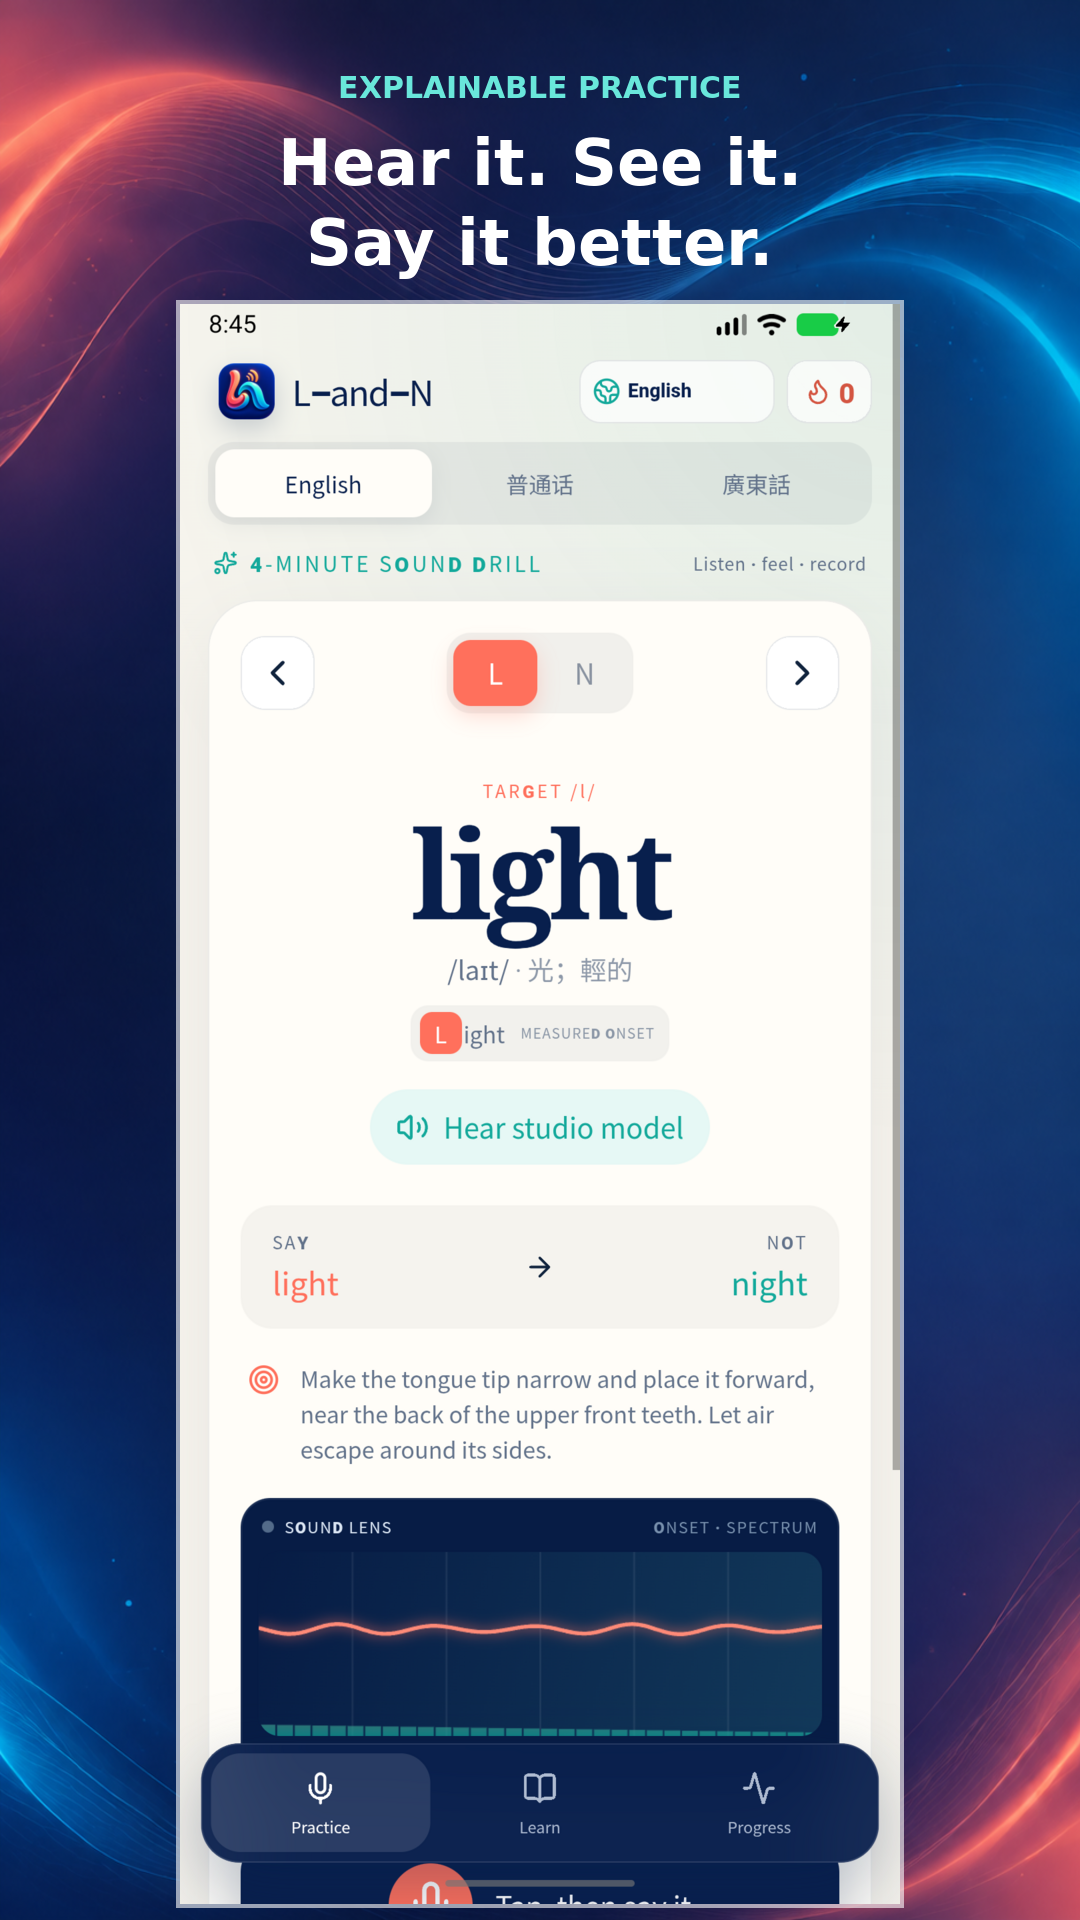
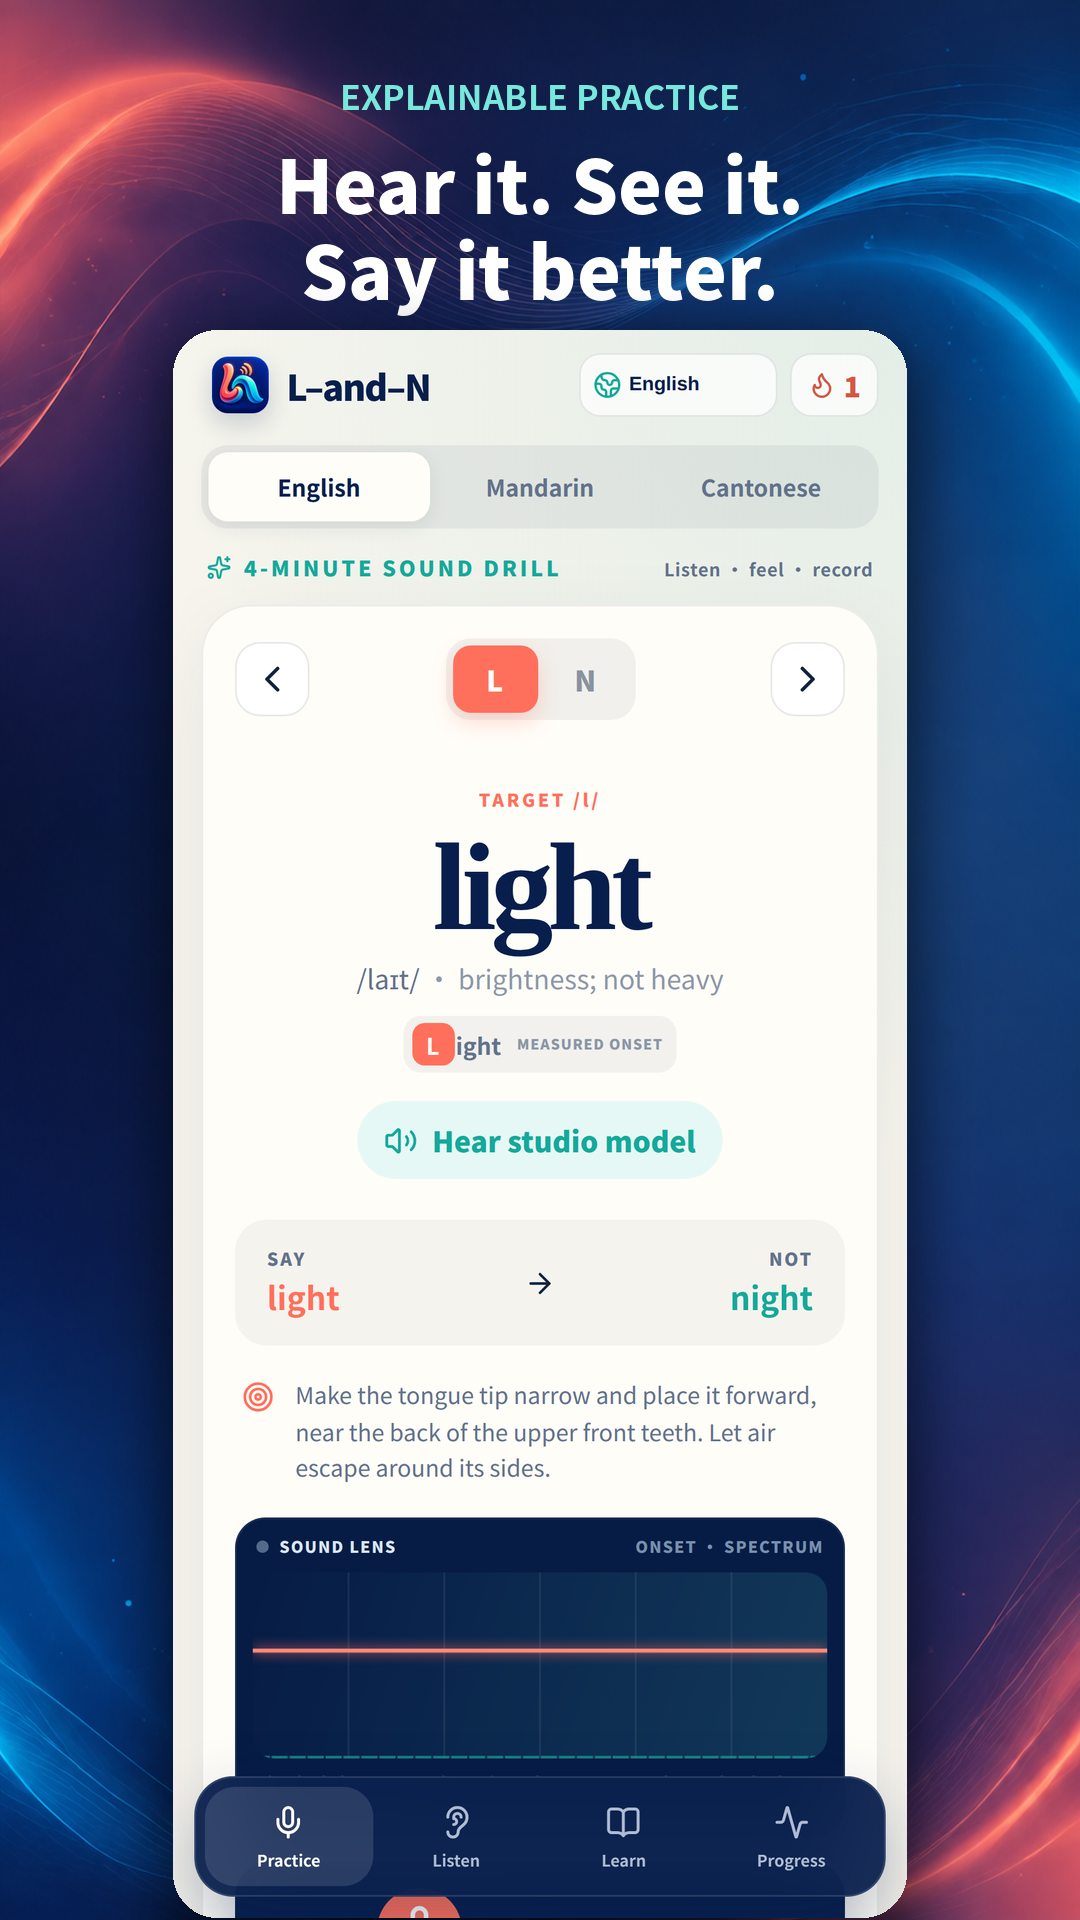
Refresh the store screenshots for 1.0.4 and keep the tools that make them

diff --git a/src/components/MouthModel3D.tsx b/src/components/MouthModel3D.tsx
@@ -47,28 +47,29 @@ function ellipsoid(
   return mesh
 }
 
+/** Some WebViews and headless browsers cannot create a WebGL context; the rest of the app must keep working. */
+function supportsWebGL(): boolean {
+  try {
+    const probe = document.createElement('canvas')
+    return Boolean(probe.getContext('webgl2') ?? probe.getContext('webgl'))
+  } catch {
+    return false
+  }
+}
+
 export function MouthModel3D({ copy }: { copy: UICopy['model'] }) {
   const hostRef = useRef<HTMLDivElement>(null)
   const [sound, setSound] = useState<TargetSound>('L')
-  const [unsupported, setUnsupported] = useState(false)
+  const [unsupported] = useState(() => !supportsWebGL())
 
   useEffect(() => {
     const host = hostRef.current
-    if (!host) return
+    if (!host || unsupported) return
 
     const scene = new THREE.Scene()
     const camera = new THREE.PerspectiveCamera(32, 1, 0.1, 100)
     camera.position.set(0.05, 0.55, 6.8)
-    let renderer: THREE.WebGLRenderer
-    try {
-      renderer = new THREE.WebGLRenderer({ antialias: true, alpha: true })
-    } catch (error) {
-      // Some WebViews and headless browsers cannot create a WebGL context; the
-      // rest of the app must keep working, so show the callouts without the model.
-      console.warn('3D mouth model unavailable', error)
-      setUnsupported(true)
-      return
-    }
+    const renderer = new THREE.WebGLRenderer({ antialias: true, alpha: true })
     renderer.setPixelRatio(Math.min(window.devicePixelRatio || 1, 2))
     renderer.outputColorSpace = THREE.SRGBColorSpace
     renderer.setClearColor(0x000000, 0)
@@ -253,7 +254,7 @@ export function MouthModel3D({ copy }: { copy: UICopy['model'] }) {
       renderer.dispose()
       renderer.domElement.remove()
     }
-  }, [sound])
+  }, [sound, unsupported])
 
   const callouts = sound === 'L' ? [copy.lContact, copy.lVelum, copy.lAir] : [copy.nContact, copy.nVelum, copy.nAir]
 

diff --git a/tools/store/capture_screens.py b/tools/store/capture_screens.py
@@ -1,0 +1,77 @@
+import sys, json, time, base64, datetime
+sys.argv=['cdp.py','9485','tabs']; exec(open('cdp.py').read().split("if cmd=='tabs':")[0])
+S='/tmp/claude-1000/-home-lachlan-ProjectsLFS-L-And-N/8b9cb924-868e-4a66-8c34-3cb4d5f61ca3/scratchpad'
+tid=open(S+'/cap-tab-id.txt').read().strip(); t=[x for x in tabs() if x['id']==tid][0]; c=C(t['webSocketDebuggerUrl'])
+c.call('Page.bringToFront')
+def ev(e): return c.call('Runtime.evaluate', expression=e, returnByValue=True, awaitPromise=True)['result'].get('value')
+def mouse(x,y):
+    for typ,extra in (('mouseMoved',{}),('mousePressed',{'button':'left','clickCount':1}),('mouseReleased',{'button':'left','clickCount':1})):
+        c.call('Input.dispatchMouseEvent', type=typ, x=x, y=y, **extra)
+def click(js):
+    r=ev('(()=>{const e=%s; if(!e) return null; e.scrollIntoView({block:"center"}); const q=e.getBoundingClientRect(); return {x:q.x+q.width/2,y:q.y+q.height/2}})()' % js)
+    if r: mouse(r['x'], r['y'])
+    return r
+def wait_for(js, seconds=15):
+    for _ in range(seconds*2):
+        if ev('!!(%s)' % js): return True
+        time.sleep(0.5)
+    return False
+def by_test(id_):
+    wait_for("document.querySelector('[data-testid=%s]')" % json.dumps(id_)); time.sleep(0.3)
+    return click("document.querySelector('[data-testid=%s]')" % json.dumps(id_))
+def by_text(txt, sel='button'): return click('[...document.querySelectorAll(%s)].find(b=>b.getBoundingClientRect().width>0&&b.innerText.trim().startsWith(%s))' % (json.dumps(sel), json.dumps(txt)))
+def shot(name, focus=None):
+    if focus: ev('(()=>{const e=document.querySelector(%s); if(e){e.scrollIntoView({block:"center"});} })()' % json.dumps(focus))
+    else: ev('window.scrollTo(0,0)')
+    time.sleep(0.8)
+    r=c.call('Page.captureScreenshot', format='png'); open(f'{S}/shots/{name}.png','wb').write(base64.b64decode(r['data'])); print('shot', name)
+def setup(w,h,dpr,mobile):
+    c.call('Emulation.setDeviceMetricsOverride', width=w, height=h, deviceScaleFactor=dpr, mobile=mobile)
+    c.call('Page.navigate', url='https://l-and-n.lazying.art/?shots='+str(int(time.time()))); time.sleep(6)
+    now=datetime.datetime.utcnow()
+    attempts=[]
+    for i,(ex,score,det) in enumerate([('en-light-night',92,'L'),('en-night-light',88,'N'),('zh-li-ni',81,'L'),('yue-nei-lei',95,'N'),('en-lead-need',74,'L'),('en-line-nine',90,'L')]):
+        created=(now-datetime.timedelta(minutes=7*i)).isoformat()+'Z'
+        attempts.append({'exerciseId':ex,'score':score,'createdAt':created,'detectedSound':det,'target':det,'language':'en-US' if ex.startswith('en') else ('zh-CN' if ex.startswith('zh') else 'yue-HK'),'takeId':created})
+    listening=[{'pairId':'en-light-night|en-night-light','language':'en-US','total':5,'correct':5,'createdAt':(now-datetime.timedelta(minutes=3)).isoformat()+'Z'},{'pairId':'zh-li-ni|zh-ni-li','language':'zh-CN','total':7,'correct':6,'createdAt':(now-datetime.timedelta(minutes=30)).isoformat()+'Z'}]
+    ev('localStorage.setItem("CapacitorStorage.landn.attempts.v1", %s); localStorage.setItem("CapacitorStorage.landn.listening.v1", %s); 1' % (json.dumps(json.dumps(attempts)), json.dumps(json.dumps(listening))))
+    c.call('Page.reload'); time.sleep(6)
+    ev('(()=>{const st=document.createElement("style"); st.textContent="::-webkit-scrollbar{display:none} html{scrollbar-width:none}"; document.head.appendChild(st); return 1})()')
+NAV_MARKERS={'Practice':'SOUND DRILL','Listen':'EAR TRAINING','Learn':'Learn','Progress':'Progress','練習':'練習'}
+def tab(index, marker):
+    for attempt in range(3):
+        nav=ev('[...document.querySelectorAll(".bottom-nav button")].map(b=>{const q=b.getBoundingClientRect(); return [q.x+q.width/2,q.y+q.height/2]})') or []
+        if len(nav)>index: mouse(*nav[index]); time.sleep(1.5)
+        if ev('document.body.innerText.includes(%s)' % json.dumps(marker)): return True
+        ev('[...document.querySelectorAll(".bottom-nav button")][%d].click()' % index); time.sleep(1.5)
+        if ev('document.body.innerText.includes(%s)' % json.dumps(marker)): return True
+    print('tab failed', index, marker); return False
+def run(prefix):
+    tab(0, 'SOUND DRILL'); shot(prefix+'-practice-en')
+    by_text('Mandarin'); time.sleep(1.5)
+    click('[...document.querySelectorAll("button")].find(b=>b.getBoundingClientRect().width>0&&/next/i.test(b.getAttribute("aria-label")||""))'); time.sleep(1)
+    shot(prefix+'-practice-zh')
+    tab(1, 'EAR TRAINING'); time.sleep(1)
+    print('play', by_test('exam-play'))
+    for _ in range(30):
+        time.sleep(1)
+        if ev('!!document.querySelector("[data-testid=exam-replay]")'): break
+    print('phase', ev('document.querySelector(".exam-actions")?.innerText'))
+    time.sleep(1); by_test('exam-choose-l'); time.sleep(0.4); by_test('exam-choose-n'); time.sleep(0.6)
+    shot(prefix+'-listen-answering', '.hear-words')
+    seq=ev('[...document.querySelectorAll(".exam-dots i")].length')
+    for i in range(2, seq): by_test('exam-choose-l' if i%2==0 else 'exam-choose-n'); time.sleep(0.3)
+    by_test('exam-submit'); time.sleep(2); print('result', ev('!!document.querySelector("[data-testid=exam-result]")')); shot(prefix+'-listen-result', '[data-testid=exam-result]')
+    tab(3, 'Progress'); time.sleep(3); print('history rows', ev('document.querySelectorAll("[data-testid=history-play]").length')); shot(prefix+'-progress', '[data-testid=history-play]')
+    ev('(()=>{const s=document.querySelector("[data-testid=ui-language-picker]"); const set=Object.getOwnPropertyDescriptor(HTMLSelectElement.prototype,"value").set; set.call(s,"zh-Hant"); s.dispatchEvent(new Event("change",{bubbles:true})); return s.value})()'); time.sleep(1.5)
+    tab(0, '練習'); by_text('廣東話'); time.sleep(1.5); shot(prefix+'-practice-yue-hant')
+    ev('(()=>{const s=document.querySelector("[data-testid=ui-language-picker]"); const set=Object.getOwnPropertyDescriptor(HTMLSelectElement.prototype,"value").set; set.call(s,"en"); s.dispatchEvent(new Event("change",{bubbles:true})); return s.value})()'); time.sleep(1)
+    if ev('(()=>{try{const c=document.createElement("canvas"); return !!(c.getContext("webgl2")||c.getContext("webgl"))}catch(e){return false}})()'):
+        tab(2, 'Learn'); time.sleep(8); print('canvas', ev('document.querySelectorAll("canvas").length')); shot(prefix+'-learn')
+    else:
+        print('no WebGL in this browser; Learn capture skipped')
+import os
+which=os.environ.get("SHOT_DEVICE","iphone")
+if which=='iphone': setup(414, 896, 3, False); run('iphone')
+else: setup(1032, 1376, 2, False); run('ipad')
+print('done')

diff --git a/tools/store/capture_learn.py b/tools/store/capture_learn.py
@@ -1,0 +1,56 @@
+import sys, json, time, base64, datetime
+sys.argv=['cdp.py','9486','tabs']; exec(open('cdp.py').read().split("if cmd=='tabs':")[0])
+S='/tmp/claude-1000/-home-lachlan-ProjectsLFS-L-And-N/8b9cb924-868e-4a66-8c34-3cb4d5f61ca3/scratchpad'
+t=[x for x in tabs() if x['type']=='page'][0]; c=C(t['webSocketDebuggerUrl'])
+c.call('Page.bringToFront')
+def ev(e): return c.call('Runtime.evaluate', expression=e, returnByValue=True, awaitPromise=True)['result'].get('value')
+def mouse(x,y):
+    for typ,extra in (('mouseMoved',{}),('mousePressed',{'button':'left','clickCount':1}),('mouseReleased',{'button':'left','clickCount':1})):
+        c.call('Input.dispatchMouseEvent', type=typ, x=x, y=y, **extra)
+def click(js):
+    r=ev('(()=>{const e=%s; if(!e) return null; e.scrollIntoView({block:"center"}); const q=e.getBoundingClientRect(); return {x:q.x+q.width/2,y:q.y+q.height/2}})()' % js)
+    if r: mouse(r['x'], r['y'])
+    return r
+def wait_for(js, seconds=15):
+    for _ in range(seconds*2):
+        if ev('!!(%s)' % js): return True
+        time.sleep(0.5)
+    return False
+def by_test(id_):
+    wait_for("document.querySelector('[data-testid=%s]')" % json.dumps(id_)); time.sleep(0.3)
+    return click("document.querySelector('[data-testid=%s]')" % json.dumps(id_))
+def by_text(txt, sel='button'): return click('[...document.querySelectorAll(%s)].find(b=>b.getBoundingClientRect().width>0&&b.innerText.trim().startsWith(%s))' % (json.dumps(sel), json.dumps(txt)))
+def shot(name, focus=None):
+    if focus: ev('(()=>{const e=document.querySelector(%s); if(e){e.scrollIntoView({block:"center"});} })()' % json.dumps(focus))
+    else: ev('window.scrollTo(0,0)')
+    time.sleep(0.8)
+    r=c.call('Page.captureScreenshot', format='png'); open(f'{S}/shots/{name}.png','wb').write(base64.b64decode(r['data'])); print('shot', name)
+def setup(w,h,dpr,mobile):
+    c.call('Emulation.setDeviceMetricsOverride', width=w, height=h, deviceScaleFactor=dpr, mobile=mobile)
+    c.call('Page.navigate', url='https://l-and-n.lazying.art/?shots='+str(int(time.time()))); time.sleep(6)
+    now=datetime.datetime.utcnow()
+    attempts=[]
+    for i,(ex,score,det) in enumerate([('en-light-night',92,'L'),('en-night-light',88,'N'),('zh-li-ni',81,'L'),('yue-nei-lei',95,'N'),('en-lead-need',74,'L'),('en-line-nine',90,'L')]):
+        created=(now-datetime.timedelta(minutes=7*i)).isoformat()+'Z'
+        attempts.append({'exerciseId':ex,'score':score,'createdAt':created,'detectedSound':det,'target':det,'language':'en-US' if ex.startswith('en') else ('zh-CN' if ex.startswith('zh') else 'yue-HK'),'takeId':created})
+    listening=[{'pairId':'en-light-night|en-night-light','language':'en-US','total':5,'correct':5,'createdAt':(now-datetime.timedelta(minutes=3)).isoformat()+'Z'},{'pairId':'zh-li-ni|zh-ni-li','language':'zh-CN','total':7,'correct':6,'createdAt':(now-datetime.timedelta(minutes=30)).isoformat()+'Z'}]
+    ev('localStorage.setItem("CapacitorStorage.landn.attempts.v1", %s); localStorage.setItem("CapacitorStorage.landn.listening.v1", %s); 1' % (json.dumps(json.dumps(attempts)), json.dumps(json.dumps(listening))))
+    c.call('Page.reload'); time.sleep(6)
+    ev('(()=>{const st=document.createElement("style"); st.textContent="::-webkit-scrollbar{display:none} html{scrollbar-width:none}"; document.head.appendChild(st); return 1})()')
+NAV_MARKERS={'Practice':'SOUND DRILL','Listen':'EAR TRAINING','Learn':'Learn','Progress':'Progress','練習':'練習'}
+def tab(index, marker):
+    for attempt in range(3):
+        nav=ev('[...document.querySelectorAll(".bottom-nav button")].map(b=>{const q=b.getBoundingClientRect(); return [q.x+q.width/2,q.y+q.height/2]})') or []
+        if len(nav)>index: mouse(*nav[index]); time.sleep(1.5)
+        if ev('document.body.innerText.includes(%s)' % json.dumps(marker)): return True
+        ev('[...document.querySelectorAll(".bottom-nav button")][%d].click()' % index); time.sleep(1.5)
+        if ev('document.body.innerText.includes(%s)' % json.dumps(marker)): return True
+    print('tab failed', index, marker); return False
+def run(prefix):
+    tab(2, 'Learn'); time.sleep(10); print('canvas', ev('document.querySelectorAll("canvas").length')); shot(prefix+'-learn', '.mouth-model-canvas')
+    click('[...document.querySelectorAll(".model-switch button")].find(b=>/N/.test(b.innerText))'); time.sleep(3); shot(prefix+'-learn-n', '.mouth-model-canvas')
+import os
+which=os.environ.get("SHOT_DEVICE","iphone")
+if which=='iphone': setup(414, 896, 3, False); run('iphone')
+else: setup(1032, 1376, 2, False); run('ipad')
+print('done')

diff --git a/tools/store/compose_store.py b/tools/store/compose_store.py
@@ -1,0 +1,52 @@
+"""Composite verified app captures onto the L & N backdrop with captions, at store sizes."""
+import sys, pathlib
+from PIL import Image, ImageDraw, ImageFont, ImageFilter
+S=pathlib.Path('/tmp/claude-1000/-home-lachlan-ProjectsLFS-L-And-N/8b9cb924-868e-4a66-8c34-3cb4d5f61ca3/scratchpad')
+ROOT=pathlib.Path('/home/lachlan/ProjectsLFS/L-And-N')
+BG=ROOT/'store/assets/google-play-screenshot-bg.png'
+FONT_BOLD='/usr/share/fonts/opentype/noto/NotoSansCJK-Bold.ttc'
+FONT_BLACK='/usr/share/fonts/opentype/noto/NotoSansCJK-Black.ttc'
+CAPTIONS=[  # (capture, eyebrow, title lines)
+ ('practice-en','EXPLAINABLE PRACTICE',['Hear it. See it.','Say it better.']),
+ ('listen-answering','EAR TRAINING · 59 PAIRS',['Which word','did you hear?']),
+ ('listen-result','INSTANT FEEDBACK',['See every miss.','Replay any word.']),
+ ('practice-zh','MANDARIN · EVERY FINAL',['蓝 or 南?','Every l/n final.']),
+ ('practice-yue-hant','CANTONESE · 廣東話',['你 or 理?','21 Cantonese finals.']),
+ ('learn','INTERACTIVE 3D',['See where /l/','lets air flow.']),
+ ('progress','KEPT TAKES',['Replay your','best attempts.']),
+]
+def compose(capture, eyebrow, lines, size, out, scale):
+    W,H=size
+    bg=Image.open(BG).convert('RGB'); bg=bg.resize((W, int(bg.height*W/bg.width)), Image.LANCZOS)
+    if bg.height<H: bg=bg.resize((W,H), Image.LANCZOS)
+    canvas=bg.crop((0,0,W,H))
+    draw=ImageDraw.Draw(canvas)
+    f_eyebrow=ImageFont.truetype(FONT_BOLD, int(34*scale)); f_title=ImageFont.truetype(FONT_BLACK, int(74*scale))
+    y=int(70*scale)
+    w=draw.textlength(eyebrow, font=f_eyebrow); draw.text(((W-w)/2, y), eyebrow, font=f_eyebrow, fill=(120,232,220)); y+=int(58*scale)
+    for line in lines:
+        w=draw.textlength(line, font=f_title); draw.text(((W-w)/2, y), line, font=f_title, fill='white'); y+=int(86*scale)
+    shot=Image.open(capture).convert('RGB')
+    top=y+int(30*scale); avail=H-top+int(60*scale)
+    sw=int(W*0.68); sh=int(shot.height*sw/shot.width)
+    shot=shot.resize((sw,sh), Image.LANCZOS)
+    if sh>avail: shot=shot.crop((0,0,sw,avail)); sh=avail
+    radius=int(44*scale)
+    mask=Image.new('L',(sw,sh),0); ImageDraw.Draw(mask).rounded_rectangle((0,0,sw-1,sh-1), radius=radius, fill=255)
+    shadow=Image.new('RGBA',(W,H),(0,0,0,0)); sd=ImageDraw.Draw(shadow); x=(W-sw)//2
+    sd.rounded_rectangle((x-6,top+18,x+sw+6,top+sh+30), radius=radius, fill=(0,0,0,140)); shadow=shadow.filter(ImageFilter.GaussianBlur(int(28*scale)))
+    canvas=Image.alpha_composite(canvas.convert('RGBA'), shadow).convert('RGB')
+    canvas.paste(shot,(x,top),mask)
+    canvas.save(out, optimize=True); print(out, canvas.size)
+prefix=sys.argv[1] if len(sys.argv)>1 else 'iphone'
+outdir=S/'composed'; outdir.mkdir(exist_ok=True)
+n=0
+for cap, eyebrow, lines in CAPTIONS:
+    src=S/'shots'/f'{prefix}-{cap}.png'
+    if not src.exists() or src.stat().st_size<50000: print('skip', src.name); continue
+    n+=1
+    if prefix=='iphone':
+        compose(src, eyebrow, lines, (1080,1920), outdir/f'google-play-phone-{n:02d}.png', 1.0)
+        compose(src, eyebrow, lines, (1242,2688), outdir/f'app-store-iphone-65-{n:02d}.png', 1.15)
+    else:
+        compose(src, eyebrow, lines, (2064,2752), outdir/f'app-store-ipad-13-{n:02d}.png', 1.9)

diff --git a/store/assets/README.md b/store/assets/README.md
@@ -1,5 +1,22 @@
 # Store assets
 
+## 2026-09-21 set (1.0.4: 59 pairs, kept takes, hear-each-word buttons)
+
+Seven screens per store, all real captures of the live web build (the same UI the native shells wrap), taken with the store browser at iPhone 6.5" (414×896 @3x) and iPad 13" (1032×1376 @2x) viewports, composited by `tools/store/compose_store.py` over the AI-generated backdrop with a caption:
+
+| # | Screen | Caption |
+| --- | --- | --- |
+| 01 | Practice, English (light) | Hear it. See it. Say it better. |
+| 02 | Listen exam, answering, with hear-each-word buttons | Which word did you hear? |
+| 03 | Listen result with per-word replay | See every miss. Replay any word. |
+| 04 | Practice, Mandarin | 蓝 or 南? Every l/n final. |
+| 05 | Practice, Cantonese under the Traditional Chinese interface | 你 or 理? 21 Cantonese finals. |
+| 06 | Learn, 3D mouth model (captured in a software-WebGL Chrome) | See where /l/ lets air flow. |
+| 07 | Progress with kept-take replay buttons (seeded sample history) | Replay your best attempts. |
+
+Files: `google-play-phone-01..07.png` (1080×1920), `app-store-iphone-65-01..07.png` (1242×2688), `app-store-ipad-13-01..07.png` (2064×2752). The Learn capture (06) needs a browser with WebGL; the store Chrome has none, so `tools/store/capture_screens.py` skips it there and `capture_learn.py` takes it in a `--use-angle=swiftshader` Chrome. The Google Play images keep the "created or edited using AI" disclosure because of the backdrop. The 1.0 set is kept under `previous-1.0/`.
+
+
 The Google Play phone screenshots preserve verified captures of the app UI. They are composited over `google-play-screenshot-bg.png` and exported at 1080 × 1920.
 
 The backdrop was produced with the built-in image-generation workflow using this final prompt:
